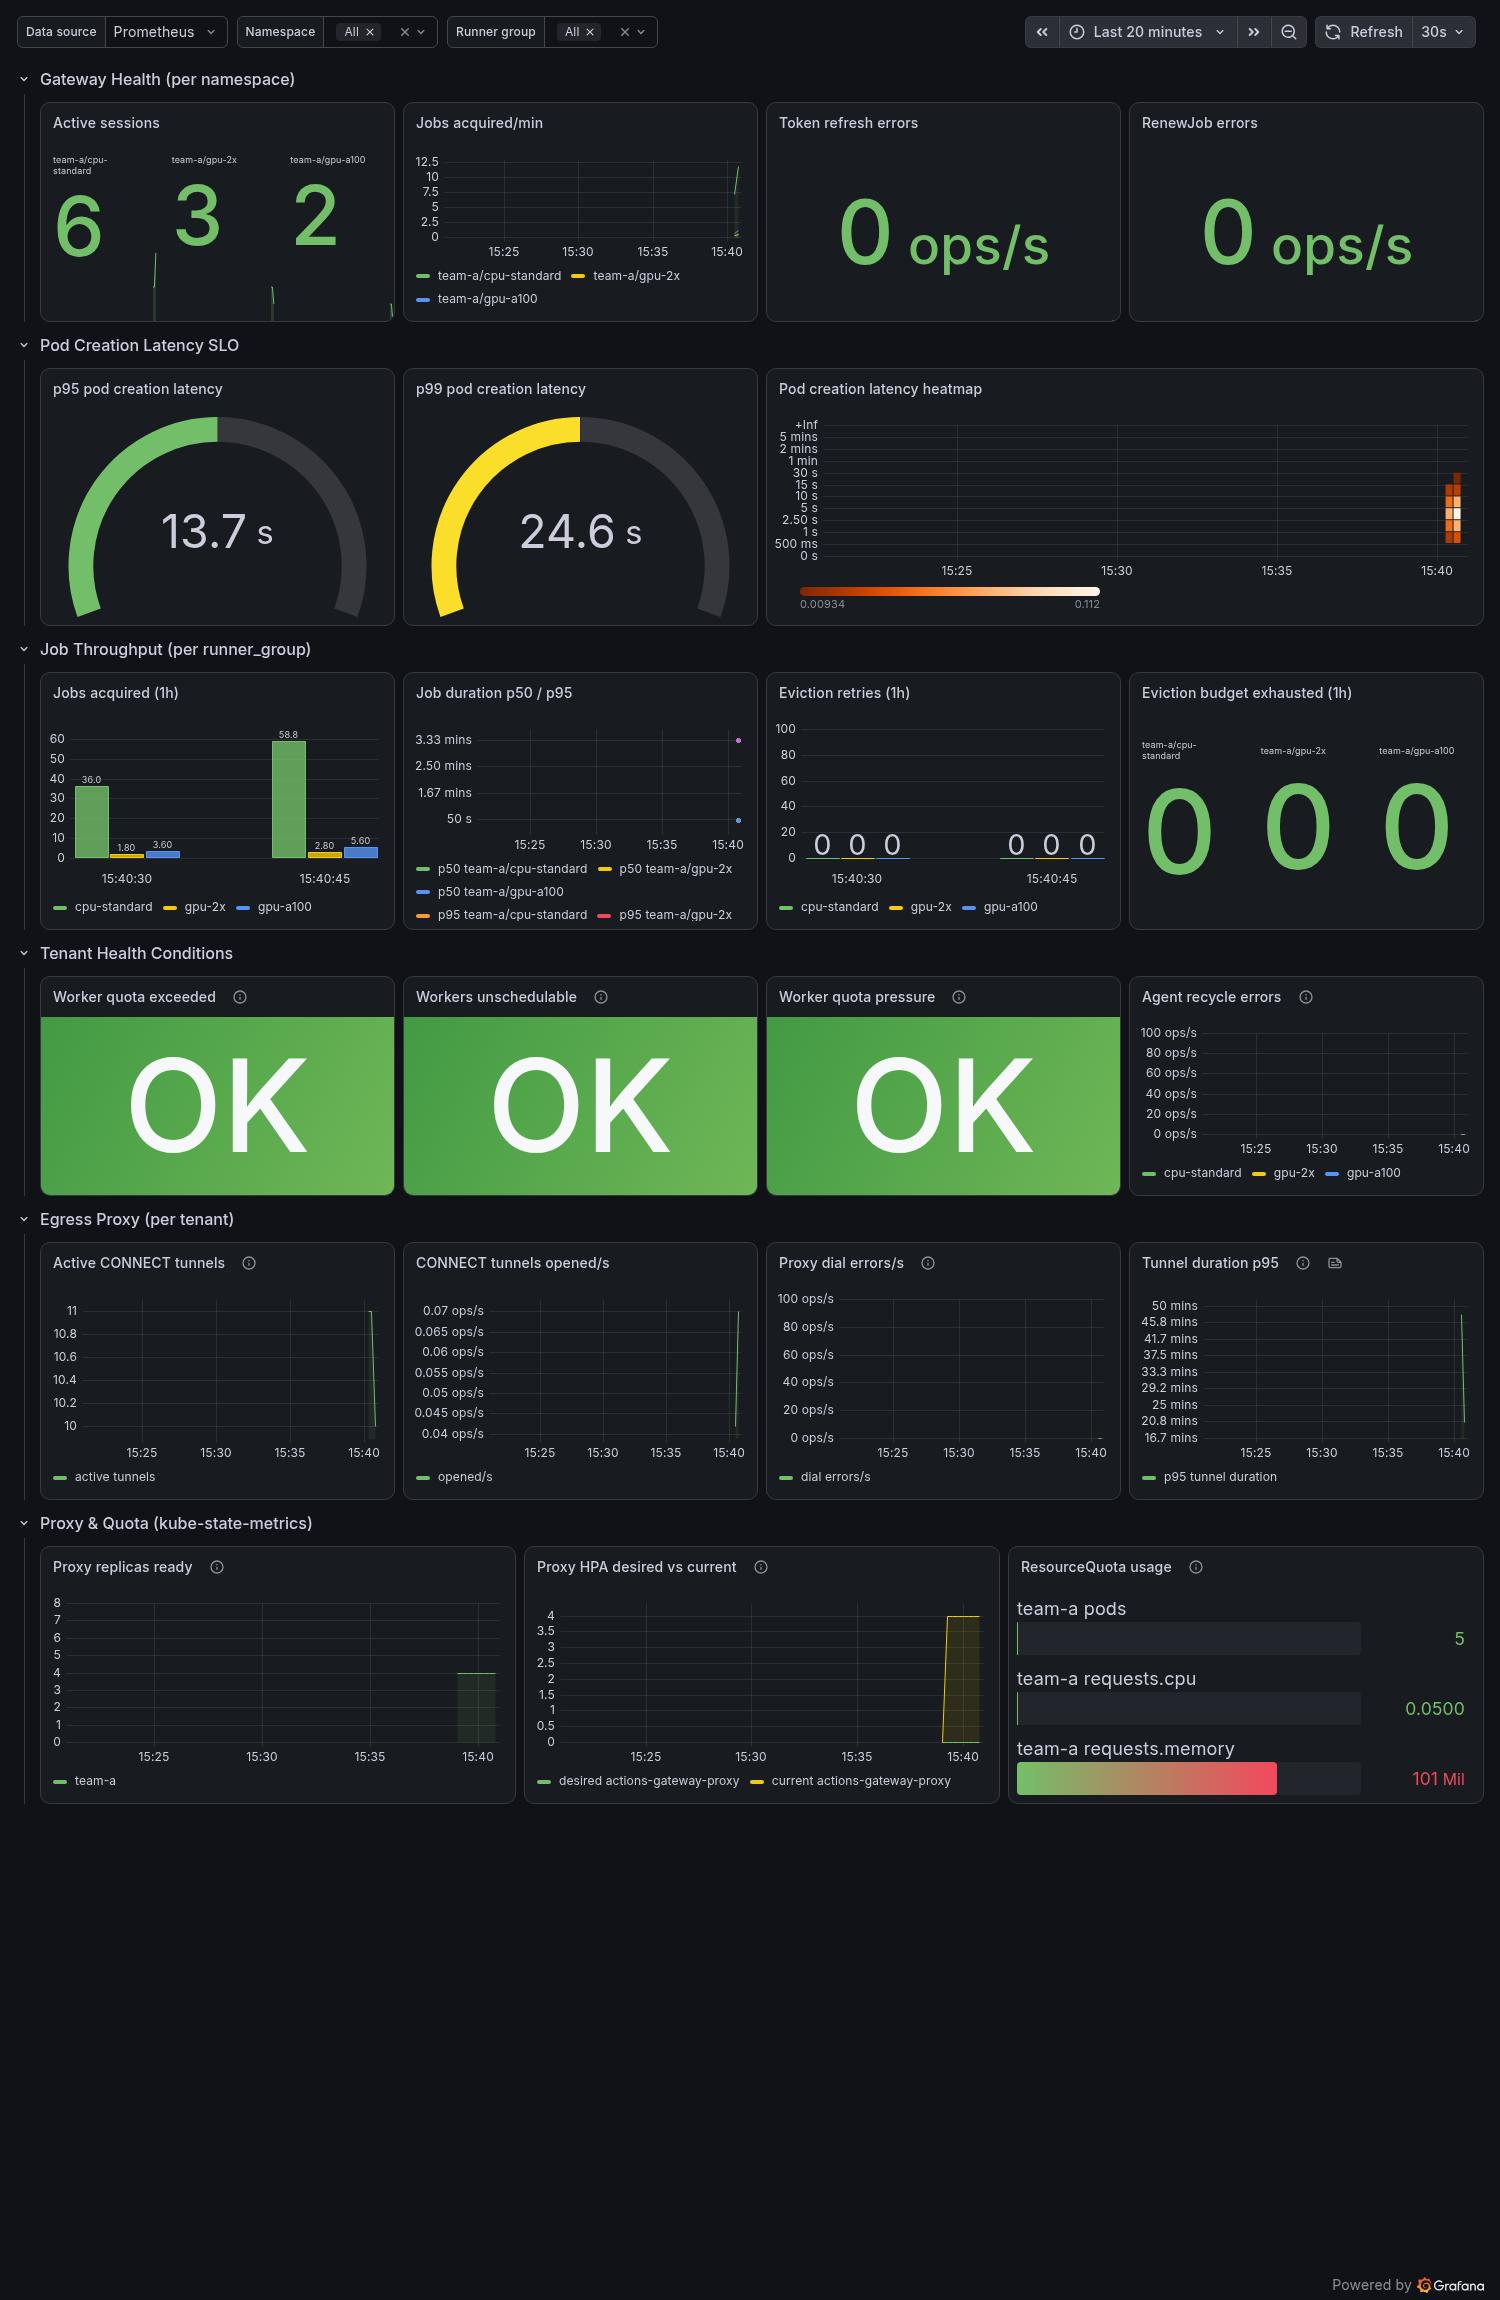
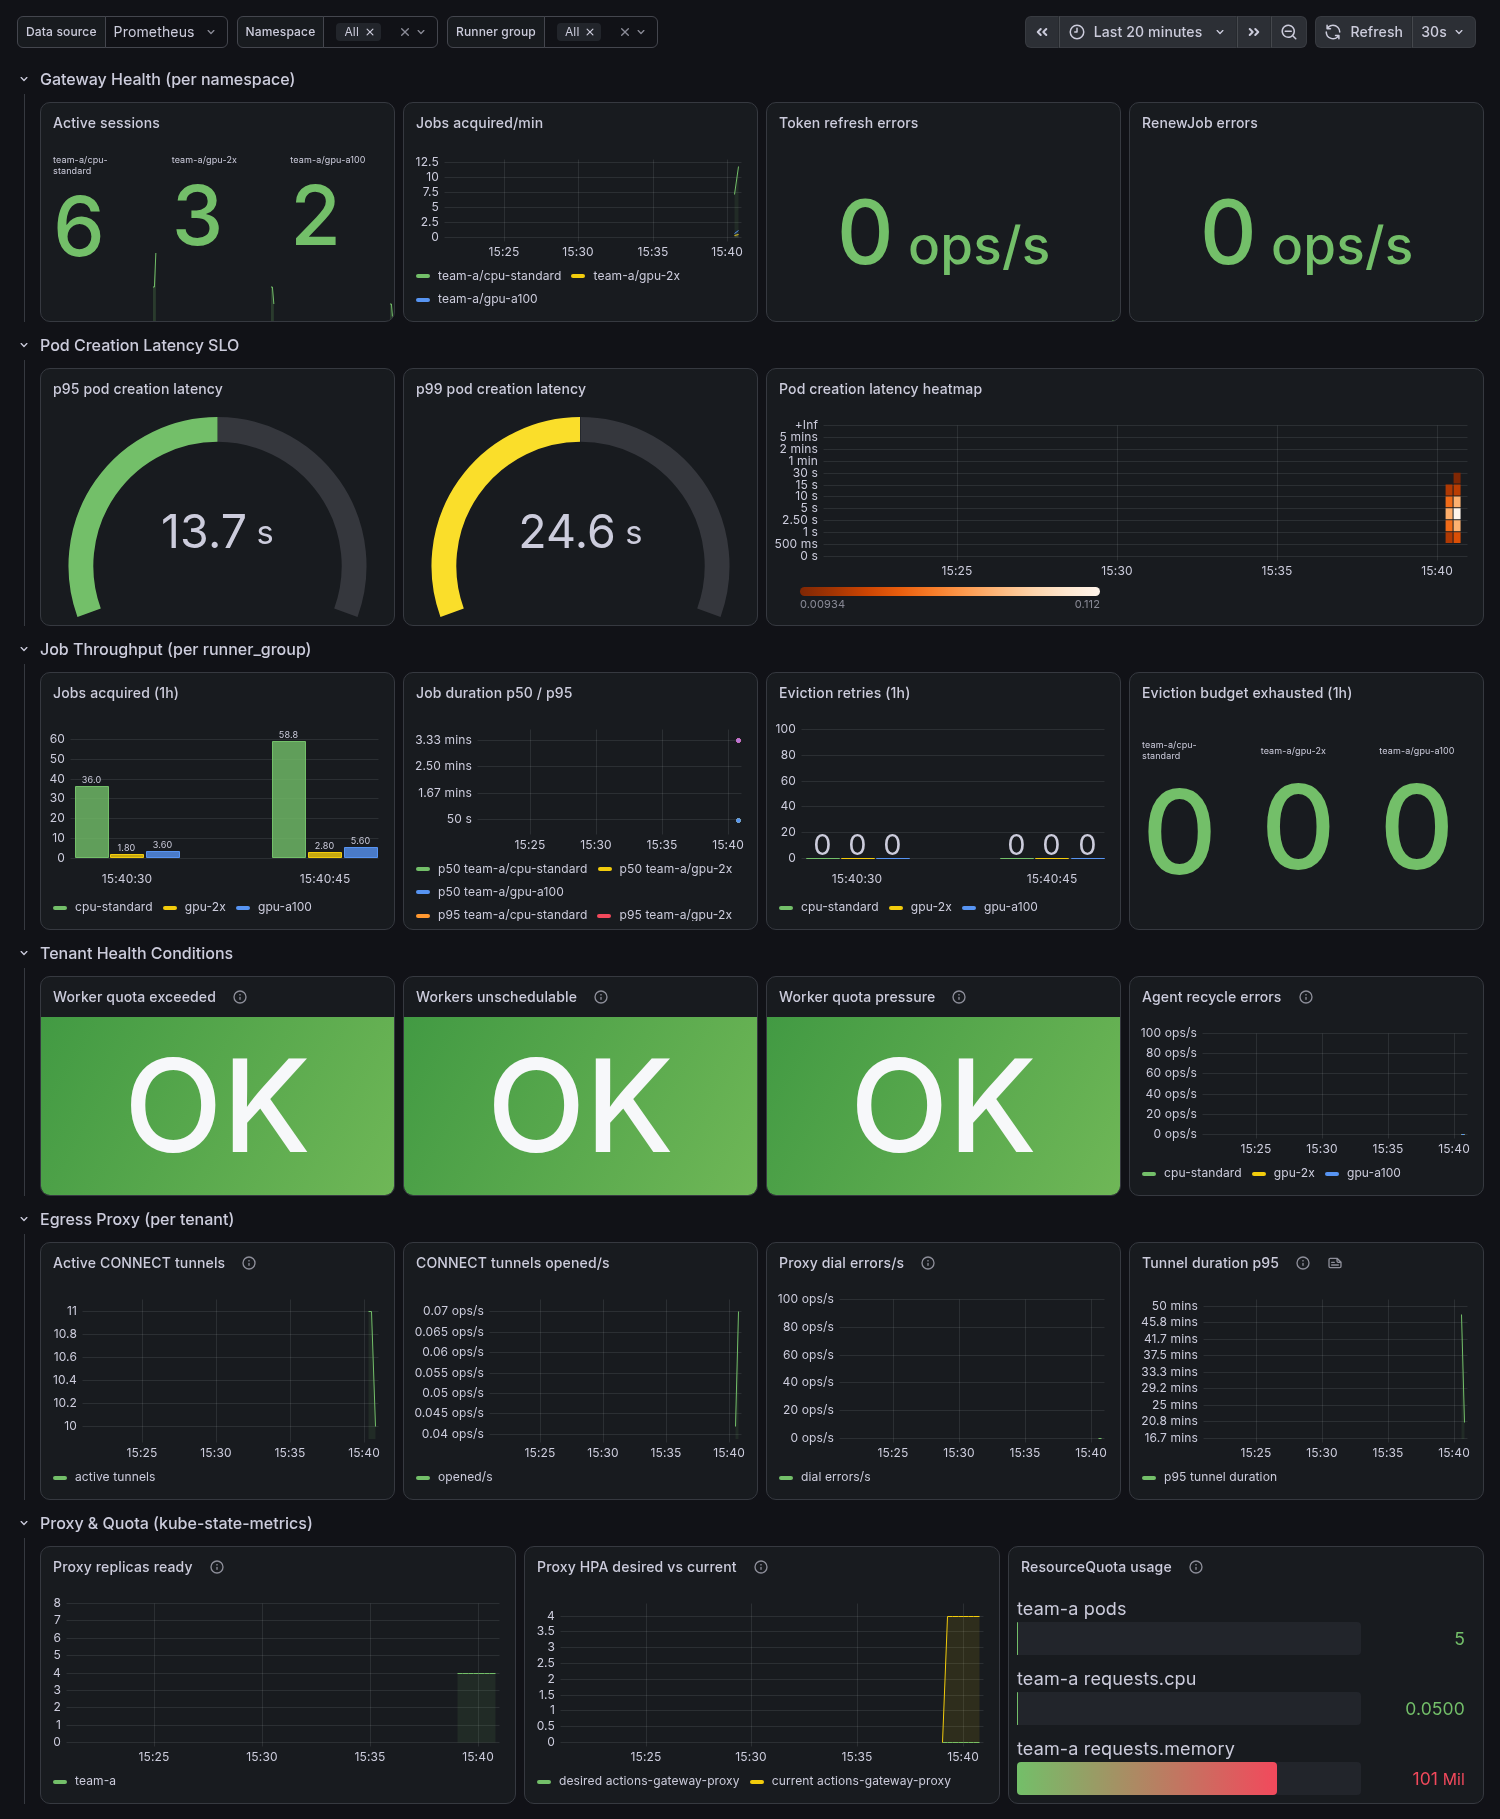
docs(observability): crop dead space from dashboard screenshots (Q186)
Grafana pins a footer to the bottom of the render viewport, leaving dead space
between the last panel row and that footer when the viewport is taller than the
dashboard. Crop both committed screenshots to their content height (tenant
1500x1819, platform 1500x1287). Add an optional ImageMagick-based auto-crop to
the preview harness's render.sh so regenerated screenshots stay tight; no-op
when magick is absent.

diff --git a/deploy/monitoring/preview/README.md b/deploy/monitoring/preview/README.md
@@ -45,7 +45,9 @@ Writes one PNG per dashboard into `OUT_DIR` (default `.`):
 
 Prerequisites: `docker`, `kind`, `helm`, `kubectl`, `curl` on `PATH`. (On macOS
 the script adds Docker Desktop's bundled `kubectl` automatically if it isn't
-already on `PATH`.)
+already on `PATH`.) `magick` (ImageMagick) is optional — when present, each PNG
+is auto-cropped to remove the dead space Grafana leaves below the last panel
+row; without it the render keeps the full `HEIGHT`.
 
 Common knobs (environment variables):
 